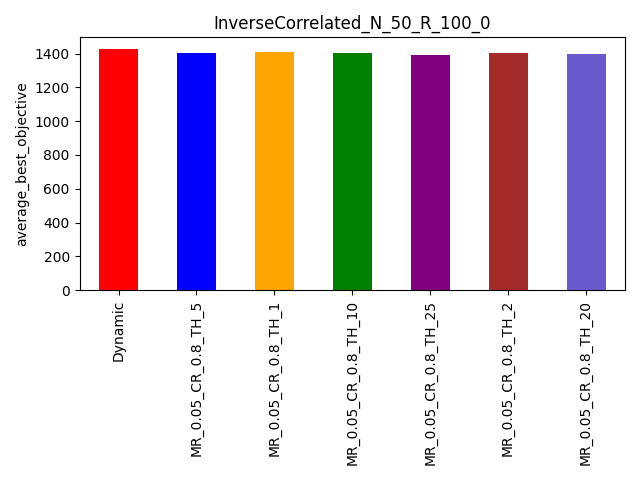
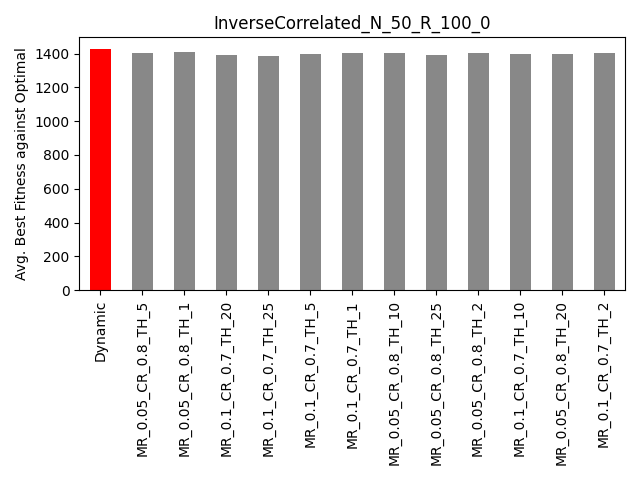
feat: Updates plots and adds horizontal bar plots

diff --git a/script/data_analysis.py b/script/data_analysis.py
@@ -80,10 +80,12 @@ def parse_files(path, pattern, verbose=True):
 
 def plot_diff_with_optimal(configs_df, title, machine):
     plt.figure(figsize=(24, 16))
-    configs_df.plot.bar(y=OBJECTIVES, color=[
-                        'red', 'blue', 'orange', 'green', 'purple', 'brown',
-                        'slateblue'], title=title, legend=False)
-    plt.ylabel(OBJECTIVES)
+    ax = configs_df.plot(kind='bar', y=OBJECTIVES, color=[
+        'red', 'darkgrey'], title=title, legend=False)
+    for bar in ax.patches[1:]:
+        bar.set_facecolor('#888888')
+
+    plt.ylabel('Avg. Best Fitness against Optimal')
     plt.tight_layout()
     plt.savefig(f'{title}_{machine}.png')
 
